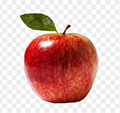
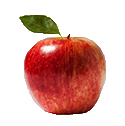
Added Image assets, made images and buttons look better.

diff --git a/index.html b/index.html
@@ -29,7 +29,10 @@
         </Audio>
         
     </head>
-    <body class="pop_popouts">
+    <!-- <img src="Images/farm-background.jpg" alt=""> -->
+    <body class="pop_popouts" >
+      
+         
         <!--Input Form-->
         <div class="nameBox" id="input-form">
              <div class="inputField">
@@ -42,7 +45,7 @@
      <!-- Quit Windows -->
         <div class="quitBox" id="quit-game">
         <p> 
-            Game Over! Your pet needs more attention!
+            Game Over! Your pet needs more attention! Reload to Restart Game.
            
         </p>
         </div>
@@ -57,14 +60,19 @@
 
      <!-- Light Switch -->
         <div id="lights-off"></div>
-
-
-    <div class="container">
+            <div class="container" >
+        
+        
             
       <!-- Main Game Play is here -->
-            <header class="header">
+            <header class="header" >
+                
+                
+                
+                
             <!-- NAME HERE --> 
             <div class="header left">
+               
                 <div class="nameBox">
                     <p>Name:<span id="span-name"></span></p>
                 </div>
@@ -92,10 +100,14 @@
             
             </header>
         
-            <main>
+            <main >
+           
+
             <!-- <div id="lights-off"></div>  -->
+            
              <!-- PET GOES HERE -->   
                 <div class= "pet-area" id="pet-area"> 
+                    <!-- <img src="Images/farm-background.jpg" alt=""> -->
                  <!-- First Image  -->
                  <div>
                     <img id ="egg" src="Images/Hamster/chicken_egg.png" alt="egg">
@@ -114,6 +126,8 @@
             </main>
             
             <aside>
+               
+                
        <!-- INSTRUCTIONS-->
                 <div class= "instbox">
                     <i class= "fa fa-quote-left fa-3x fa-pull-left fa-border" aria-hidden="true"></i>
@@ -153,7 +167,7 @@
                 <div class= "button-area">
 
                 <div class ="boredBox">
-                <button id="play-Btn"><img src="Images/Radio.jpeg" alt="play"></button>
+                <button id="play-Btn"><img src="Images/Radio.png" alt="play"></button>
                 </div>
 
                 <div class ="hungerBox">

diff --git a/css/style.css b/css/style.css
@@ -6,7 +6,7 @@
 }
 
 body {
-overflow: hidden;
+/* overflow: hidden; */
 z-index: 3;
 } 
 
@@ -61,7 +61,8 @@ header
 main
 {
   grid-area: main;
-  background-color: white; 
+  background-color:lightgrey; 
+  /* background-image: url(Images/farm-background.jpg); */
   
 }
 
@@ -72,6 +73,13 @@ aside
   
 }
 
+/* #backImage {
+  image-rendering:pixelated;
+  width: 1px;
+  height: 1px;
+  z-index: auto;
+} */
+
 footer
 {
   grid-area: footer;
@@ -81,11 +89,13 @@ footer
 /* Code for Pet Design in Main*/
 
 .pet-area{
+  z-index: auto;
   display: flex;
   justify-content: center;
-  margin-top: 80px;
+  margin-top: 100px;
   flex-direction: column;
   align-items: center;
+  /* background: url(Images/farm-background.jpg); */
 }
 
 /* Code for Box Design in Aside */
@@ -180,8 +190,9 @@ justify-content: space-evenly;
 #play-Btn,
 #feed-Btn,
 #sleep-Btn {
-    border-radius: 10%;
+    border-radius: 50%;
     cursor: pointer;
+    background-color:whitesmoke;
   
 
 }
@@ -217,7 +228,9 @@ button:focus {
 
 button:active {
   transform: scale(0.99);
-}  */
+}  
+
+
 
 
 /*Animations*/
@@ -268,7 +281,7 @@ button:active {
   @keyframes flash {
     0%, 50%, 100% { opacity: 1;}
     25%, 75% {opacity: 0;}
-    100% { background-color: red;}
+    100% { color: red;}
   }
   
   .flash {
@@ -295,17 +308,17 @@ button:active {
 
 
 .dark-mode {
-	background-color: black;
-  color: white;
+	/* background-color: black; */
+  /* color: white; */
   position: absolute;
   display: block;
   top: 0;
   left: 0;
   height: 100%;
   width: 100%;
-  background-color: rgba(0, 0, 0, 0);
+  background-color: black;
   z-index: 2;
-  opacity: 0.5;
+  opacity: 0.2;
 }
 
 .checkbox {

diff --git a/js/app.js b/js/app.js
@@ -259,8 +259,8 @@ $('#play-Btn').on("click",function togglePlay () {
 //TO FLASH MOVE DANCE//
 // To toggle to dancing bird on feed button//
 $('#feed-Btn').on("click", function feedDance() {
-    $('.pet-area').addClass('flash');
-    setTimeout(function () { $('.pet-area').removeClass('flash'); }, 1000);
+    $('#egg, #hatch, #stand').addClass('flash');
+    setTimeout(function () { $('#egg, #hatch, #stand').removeClass('flash'); }, 500);
 });
 
 
